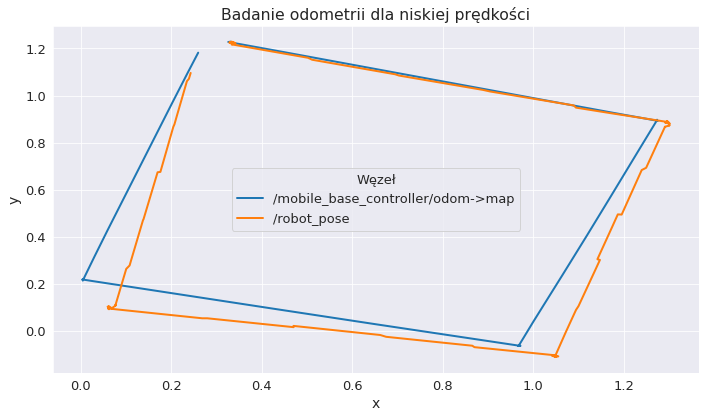
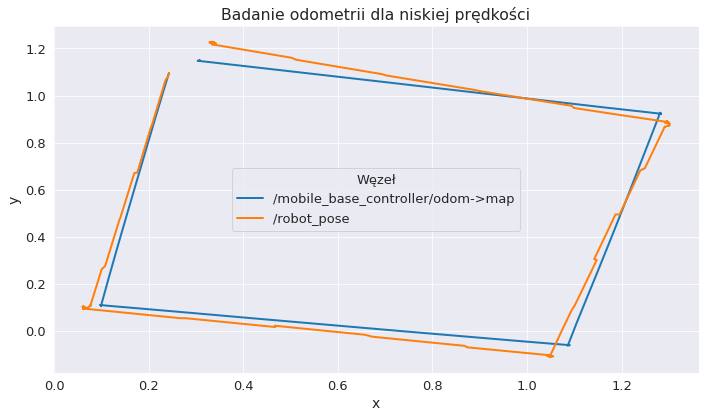
Fixed images

diff --git a/scripts/trans_pub.py b/scripts/trans_pub.py
@@ -24,8 +24,8 @@ def zad2():
 
 
     if were_both_callbacks==2:
-        tra = [-0.496, 0.046, 0.000]
-        q = [0.000, 0.000, 0.981, 0.195]
+        tra = [-0.529, 0.136, 0.000]
+        q = [0.000, 0.000, 0.974, 0.227]
 
         f1 = posemath.fromMsg(odom.pose.pose)
         f2 = PyKDL.Frame(PyKDL.Rotation.Quaternion(
@@ -77,8 +77,8 @@ if __name__ == '__main__':
         were_both_callbacks = 0
         global odomToMapWriter
         global posewriter
-        odomToMapWriter = WriterCsv("odom_mala_predkosc.csv")
-        posewriter = WriterCsv("mappose_mala_predkosc.csv")
+        odomToMapWriter = WriterCsv("odom_wysoka_predkosc.csv")
+        posewriter = WriterCsv("mappose_wysoka_predkosc.csv")
         while not rospy.is_shutdown():
             zad2()
             rate = rospy.Rate(10)  # 10hz
